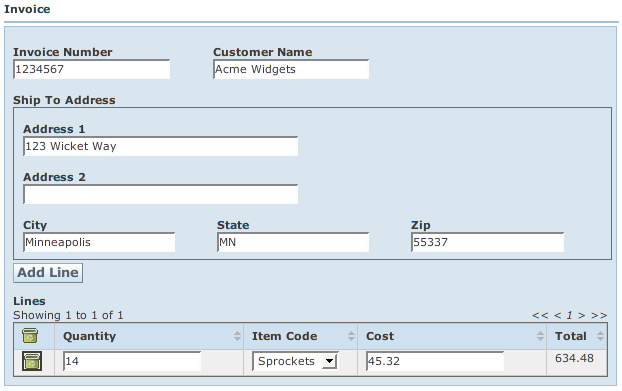
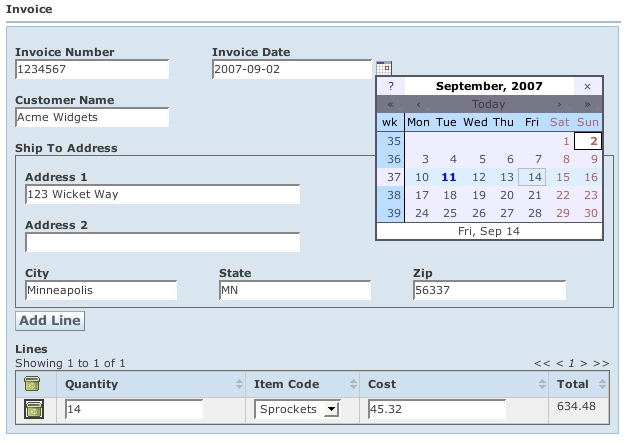
Doc/Example updates
git-svn-id: http://wicket-web-beans.googlecode.com/svn/WicketWebBeans@7 1131db2a-1c84-11de-a027-6f5b8e30e268

diff --git a/src/examples/wicket/contrib/webbeans/examples/LauncherPage.html b/src/examples/wicket/contrib/webbeans/examples/LauncherPage.html
@@ -17,6 +17,7 @@
         <li><a href="nested/NestedBeanPage.html">Nested Bean Page</a></li>
         <li><a href="enums/EnumBeanPage.html">Enum Bean Page</a></li>
         <li><a href="tables/TableBeanPage.html">Table Bean Page</a></li>
+        <li><a href="customfields/CustomFieldPage.html">Custom Field Page</a></li>
         <li><a href="complex/ExpPage2.html">Complex Bean Page</a></li>
         </ul>
     </wicket:link>

diff --git a/src/examples/wicket/contrib/webbeans/examples/customfields/CustomFieldPage.html b/src/examples/wicket/contrib/webbeans/examples/customfields/CustomFieldPage.html
@@ -1,0 +1,11 @@
+<html xmlns:wicket>
+<head>
+<wicket:head>
+    <link href="resources/bean.css" type="text/css" rel="stylesheet" ></link>
+	<title>Custom Field Page</title>
+</wicket:head>
+</head>
+<body >
+	<span wicket:id="beanForm"></span>
+</body>
+</html>

diff --git a/src/java/wicket/contrib/webbeans/model/BaseNonJavaEnum.java b/src/java/wicket/contrib/webbeans/model/BaseNonJavaEnum.java
@@ -1,0 +1,82 @@
+package wicket.contrib.webbeans.model;
+
+import wicket.contrib.webbeans.model.NonJavaEnum;
+
+import java.io.Serializable;
+import java.util.List;
+
+/**
+ * Base implementation of NonJavaEnum to make it look similar to a Java Enum.
+ * 
+ * @author Marc Stock
+ * @author Dan Syrstad
+ */
+public abstract class BaseNonJavaEnum implements NonJavaEnum, Serializable
+{
+    protected String name;
+    protected String displayValue;
+
+    public BaseNonJavaEnum(String name, String displayValue)
+    {
+        this.name = name;
+        this.displayValue = displayValue;
+    }
+
+    public String name()
+    {
+        return name;
+    }
+
+    public String getDisplayValue()
+    {
+        return displayValue;
+    }
+
+    public void setDisplayValue(String displayValue)
+    {
+        this.displayValue = displayValue;
+    }
+
+    /**
+     * Get the Enum for the given name.
+     *
+     * @param enumValue name to match
+     *
+     * @return a Enum, or null if not found.
+     * @param enums cachedEnums to search through
+     */
+    public static BaseNonJavaEnum valueOf(String enumValue, List<? extends BaseNonJavaEnum> enums)
+    {
+        if (enumValue == null)
+            return null;
+
+        for (BaseNonJavaEnum nonJavaEnum : enums) {
+            if (nonJavaEnum.name().equals(enumValue)) {
+                return nonJavaEnum;
+            }
+        }
+
+        return null;
+    }
+
+    @Override
+    public String toString()
+    {
+        return getDisplayValue();
+    }
+
+    @Override
+    public boolean equals(Object obj)
+    {
+        if (this == obj) {
+            return true;
+        }
+
+        if (!(obj instanceof BaseNonJavaEnum)) {
+            return false;
+        }
+
+        BaseNonJavaEnum other = (BaseNonJavaEnum)obj;
+        return name().equals(other.name());
+    }
+}

diff --git a/src/examples/wicket/contrib/webbeans/examples/customfields/Country.java b/src/examples/wicket/contrib/webbeans/examples/customfields/Country.java
@@ -1,0 +1,49 @@
+package wicket.contrib.webbeans.examples.customfields;
+
+import java.util.ArrayList;
+import java.util.List;
+
+import wicket.contrib.webbeans.model.BaseNonJavaEnum;
+
+public class Country extends BaseNonJavaEnum
+{
+    private volatile static List<Country> cachedEnums;
+
+    public Country(String name, String displayValue)
+    {
+        super(name, displayValue);
+    }
+
+    /**
+     * Get the enumerated values.
+     *
+     * @return the list of values. An empty list is returned if nothing is found.
+     */
+    public static List<Country> values()
+    {
+        if (cachedEnums == null) {
+            // This is where you would load a list of countries from a database. 
+            cachedEnums = new ArrayList<Country>();
+            cachedEnums.add( new Country("USA", "United States") );
+            cachedEnums.add( new Country("CAN", "Canada") );
+            cachedEnums.add( new Country("MEX", "Mexico") );
+            cachedEnums.add( new Country("GBR", "Great Britian") );
+            cachedEnums.add( new Country("RUS", "Russia") );
+        }
+
+        return cachedEnums;
+    }
+
+    /**
+     * Get the country enum value for the given name.
+     *
+     * @param enumValue name to match
+     *
+     * @return a Country, or null if not found.
+     */
+    public static Country valueOf(String enumValue)
+    {
+        return (Country)BaseNonJavaEnum.valueOf(enumValue, values());
+    }
+
+}

diff --git a/src/examples/wicket/contrib/webbeans/examples/customfields/Address.java b/src/examples/wicket/contrib/webbeans/examples/customfields/Address.java
@@ -1,0 +1,79 @@
+package wicket.contrib.webbeans.examples.customfields;
+
+import java.io.Serializable;
+
+public class Address implements Serializable 
+{
+    private static final long serialVersionUID = -6032061214458712439L;
+
+    private String address1;
+    private String address2;
+    private String city;
+    private String state;
+    private String zip;
+    private Country country;
+
+    public Address()
+    {
+    }
+
+    public String getAddress1()
+    {
+        return address1;
+    }
+
+    public void setAddress1(String address1)
+    {
+        this.address1 = address1;
+    }
+
+    public String getAddress2()
+    {
+        return address2;
+    }
+
+    public void setAddress2(String address2)
+    {
+        this.address2 = address2;
+    }
+
+    public String getCity()
+    {
+        return city;
+    }
+
+    public void setCity(String city)
+    {
+        this.city = city;
+    }
+
+    public String getState()
+    {
+        return state;
+    }
+
+    public void setState(String state)
+    {
+        this.state = state;
+    }
+
+    public String getZip()
+    {
+        return zip;
+    }
+
+    public void setZip(String zip)
+    {
+        this.zip = zip;
+    }
+
+    public Country getCountry()
+    {
+        return country;
+    }
+
+    public void setCountry(Country country)
+    {
+        this.country = country;
+    }
+}

diff --git a/src/examples/wicket/contrib/webbeans/examples/tables/Invoice.java b/src/examples/wicket/contrib/webbeans/examples/tables/Invoice.java
@@ -2,6 +2,7 @@ package wicket.contrib.webbeans.examples.tables;
 
 import java.io.Serializable;
 import java.util.ArrayList;
+import java.sql.Date;
 import java.util.List;
 
 import wicket.contrib.webbeans.examples.nested.Address;
@@ -12,6 +13,7 @@ public class Invoice implements Serializable
 
     private String invoiceNumber;
     private String customerName;
+    private Date invoiceDate;
     private Address shipToAddress;
     private List<InvoiceLine> lines = new ArrayList<InvoiceLine>();
 
@@ -37,6 +39,16 @@ public class Invoice implements Serializable
     public void setCustomerName(String customerName)
     {
         this.customerName = customerName;
+    }
+
+    public Date getInvoiceDate()
+    {
+        return invoiceDate;
+    }
+
+    public void setInvoiceDate(Date invoiceDate)
+    {
+        this.invoiceDate = invoiceDate;
     }
 
     public Address getShipToAddress()

diff --git a/src/examples/wicket/contrib/webbeans/examples/customfields/CustomFieldPage.java b/src/examples/wicket/contrib/webbeans/examples/customfields/CustomFieldPage.java
@@ -1,0 +1,21 @@
+package wicket.contrib.webbeans.examples.customfields;
+
+import wicket.contrib.webbeans.containers.BeanForm;
+import wicket.contrib.webbeans.model.BeanMetaData;
+import wicket.contrib.webbeans.model.ComponentRegistry;
+import wicket.markup.html.WebPage;
+
+public class CustomFieldPage extends WebPage
+{
+    public CustomFieldPage()
+    {
+        Address bean = new Address();
+        
+        // Register the CountryField for the Country class.
+        ComponentRegistry registry = new ComponentRegistry();
+        registry.register(Country.class, CountryField.class);
+        
+        BeanMetaData meta = new BeanMetaData(bean.getClass(), null, this, registry, false);
+        add( new BeanForm("beanForm", bean, meta) );
+    }
+}

diff --git a/src/examples/wicket/contrib/webbeans/examples/customfields/CountryField.java b/src/examples/wicket/contrib/webbeans/examples/customfields/CountryField.java
@@ -1,0 +1,13 @@
+package wicket.contrib.webbeans.examples.customfields;
+
+import wicket.contrib.webbeans.fields.EnumField;
+import wicket.contrib.webbeans.model.ElementMetaData;
+import wicket.model.IModel;
+
+public class CountryField extends EnumField
+{
+    public CountryField(String id, IModel model, ElementMetaData metaData, boolean viewOnly)
+    {
+        super(id, model, metaData, viewOnly, Country.values());
+    }
+}
